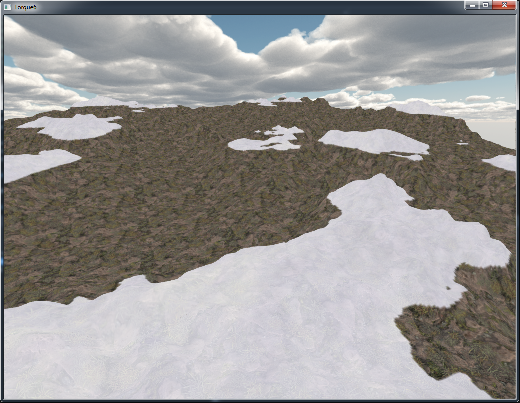
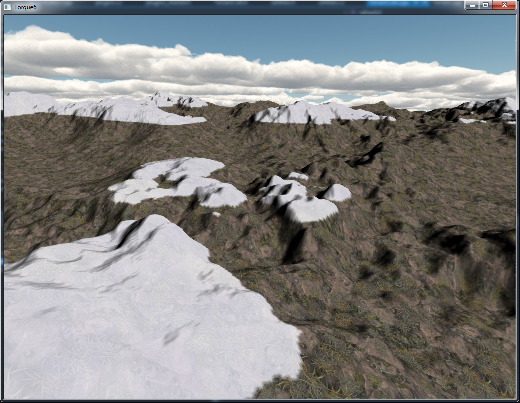
Switched terrain to deferred, generated normals.

diff --git a/plugins/Terrain/TerrainCell.cpp b/plugins/Terrain/TerrainCell.cpp
@@ -96,8 +96,8 @@ void TerrainCell::refreshVertexBuffer()
       Link.bgfx.destroyVertexBuffer(mVB);
 
    const bgfx::Memory* mem;
-   mem = Link.bgfx.makeRef(&mVerts[0], sizeof(PosUVColorVertex) * mVertCount, NULL, NULL );
-   mVB = Link.bgfx.createVertexBuffer(mem, *Link.Graphics.PosUVColorVertex, BGFX_BUFFER_NONE);
+   mem = Link.bgfx.makeRef(&mVerts[0], sizeof(PosUVNormalVertex) * mVertCount, NULL, NULL );
+   mVB = Link.bgfx.createVertexBuffer(mem, *Link.Graphics.PosUVNormalVertex, BGFX_BUFFER_NONE);
 
    //const bgfx::Memory* mem;
    //mem = Link.bgfx.makeRef(&mVerts[0], sizeof(PosUVColorVertex) * mVerts.size(), NULL, NULL );
@@ -197,6 +197,29 @@ Point3F TerrainCell::getWorldSpacePos(U32 x, U32 y)
    return worldPos;
 }
 
+Point3F TerrainCell::getNormal(U32 x, U32 y)
+{
+   // Thanks to:
+   // http://stackoverflow.com/questions/13983189/opengl-how-to-calculate-normals-in-a-terrain-height-grid
+
+   U32 offset = ( (S32)x - 1 < 0 ) ? 0 : 1;
+   F32 hL = heightMap[(y * width) + (x - offset)];
+
+   offset = ( (S32)x + 1 >= width ) ? 0 : 1;
+   F32 hR = heightMap[(y * width) + (x + offset)];
+
+   offset = ( (S32)y - 1 < 0 ) ? 0 : 1;
+   F32 hD = heightMap[((y - offset) * width) + x];
+
+   offset = ( (S32)y + 1 >= height ) ? 0 : 1;
+   F32 hU = heightMap[((y + offset) * width) + x];
+
+   // deduce terrain normal
+   Point3F normal(hL - hR, hD - hU, 2.0);
+   normal.normalize();
+   return normal;
+}
+
 void TerrainCell::rebuild()
 {
    dirty = true;
@@ -205,7 +228,7 @@ void TerrainCell::rebuild()
    SAFE_DELETE(mIndices);
 
    mVertCount = 0;
-   mVerts = new PosUVColorVertex[width * height];
+   mVerts = new PosUVNormalVertex[width * height];
    for(U32 y = 0; y < height; y++ )
    {
       for(U32 x = 0; x < width; x++ )
@@ -215,7 +238,11 @@ void TerrainCell::rebuild()
          mVerts[mVertCount].m_z = y;
          mVerts[mVertCount].m_u = (F32)x / (F32)width;
          mVerts[mVertCount].m_v = (F32)y / (F32)height;
-         mVerts[mVertCount].m_abgr = 0xffffffff;
+
+         Point3F normal = getNormal(x, y);
+         mVerts[mVertCount].m_normal_x = normal.x;
+         mVerts[mVertCount].m_normal_y = normal.y;
+         mVerts[mVertCount].m_normal_z = normal.z;
          mVertCount++;
       }
    }
@@ -261,9 +288,9 @@ void TerrainCell::refresh()
    layer->uniform = Link.Graphics.getTextureUniform(0);
    layer->handle = *mMegaTexture;
 
-   // Render in Forward (for now) with our custom terrain shader.
+   // Render in Deferred
    mRenderData->shader = mShader;
-   mRenderData->view = Graphics::RenderLayer2;
+   mRenderData->view = Graphics::DeferredGeometry;
    mRenderData->uniforms.uniforms = mUniformData;
 
    // Transform

diff --git a/plugins/Terrain/TerrainCell.h b/plugins/Terrain/TerrainCell.h
@@ -31,20 +31,22 @@
 #include <sim/simObject.h>
 #endif
 
-struct PosUVColorVertex
+struct PosUVNormalVertex
 {
    F32 m_x;
 	F32 m_y;
 	F32 m_z;
 	F32 m_u;
 	F32 m_v;
-	U32 m_abgr;
+   F32 m_normal_x;
+   F32 m_normal_y;
+   F32 m_normal_z;
 };
 
 class TerrainCell
 {
 protected:
-   PosUVColorVertex*                mVerts;
+   PosUVNormalVertex*               mVerts;
    U32                              mVertCount;
    U32*                             mIndices;
    U32                              mIndexCount;
@@ -81,6 +83,7 @@ public:
    void loadEmptyTerrain(S32 _width, S32 _height);
    void refresh();
    void rebuild();
+   Point3F getNormal(U32 x, U32 y);
    void refreshVertexBuffer();
    void refreshIndexBuffer();
    void refreshBlendMap();

diff --git a/engine/source/graphics/utilities.h b/engine/source/graphics/utilities.h
@@ -84,6 +84,30 @@ namespace Graphics
 	   static bgfx::VertexDecl ms_decl;
    };
 
+   struct PosUVNormalVertex
+   {
+	   F32 m_x;
+	   F32 m_y;
+	   F32 m_z;
+	   F32 m_u;
+	   F32 m_v;
+      F32 m_normal_x;
+      F32 m_normal_y;
+      F32 m_normal_z;
+
+	   static void init()
+	   {
+		   ms_decl
+			   .begin()
+			   .add(bgfx::Attrib::Position,  3, bgfx::AttribType::Float)
+			   .add(bgfx::Attrib::TexCoord0, 2, bgfx::AttribType::Float)
+            .add(bgfx::Attrib::Normal,    3, bgfx::AttribType::Float)
+			   .end();
+	   }
+
+	   static bgfx::VertexDecl ms_decl;
+   };
+
    struct PosUVBonesVertex
    {
 	   F32 m_x;

diff --git a/engine/source/graphics/utilities.cc b/engine/source/graphics/utilities.cc
@@ -26,6 +26,7 @@
 namespace Graphics
 {
    bgfx::VertexDecl PosUVVertex::ms_decl;
+   bgfx::VertexDecl PosUVNormalVertex::ms_decl;
    bgfx::VertexDecl PosUVBonesVertex::ms_decl;
    bgfx::VertexDecl PosUVNormalBonesVertex::ms_decl;
    bgfx::VertexDecl PosUVTBNBonesVertex::ms_decl;
@@ -99,6 +100,7 @@ namespace Graphics
    {
       // Vertex Layouts
       PosUVVertex::init();
+      PosUVNormalVertex::init();
       PosUVBonesVertex::init();
       PosUVNormalBonesVertex::init();
       PosUVTBNBonesVertex::init();

diff --git a/engine/source/plugins/plugins.cc b/engine/source/plugins/plugins.cc
@@ -152,6 +152,7 @@ namespace Plugins
       Link.Rendering.worldToScreen = Rendering::worldToScreen;
 
       // Graphics
+      Link.Graphics.PosUVNormalVertex = &Graphics::PosUVNormalVertex::ms_decl;
       Link.Graphics.PosUVColorVertex = &Graphics::PosUVColorVertex::ms_decl;
       Link.Graphics.cubeIB = &Graphics::cubeIB;
       Link.Graphics.cubeVB = &Graphics::cubeVB;

diff --git a/plugins/Terrain/TerrainEditor.cpp b/plugins/Terrain/TerrainEditor.cpp
@@ -35,6 +35,16 @@
 
 using namespace Plugins;
 
+struct PosUVColorVertex
+{
+   F32 m_x;
+	F32 m_y;
+	F32 m_z;
+	F32 m_u;
+	F32 m_v;
+	U32 m_abgr;
+};
+
 TerrainEditor terrainEditor;
 PosUVColorVertex decalVerts[4] = 
 {

diff --git a/engine/source/plugins/plugins_shared.h b/engine/source/plugins/plugins_shared.h
@@ -188,6 +188,7 @@ namespace Plugins
 
    struct GraphicsWrapper
    {
+      bgfx::VertexDecl* PosUVNormalVertex;
       bgfx::VertexDecl* PosUVColorVertex;
 
       bgfx::IndexBufferHandle* cubeIB;
